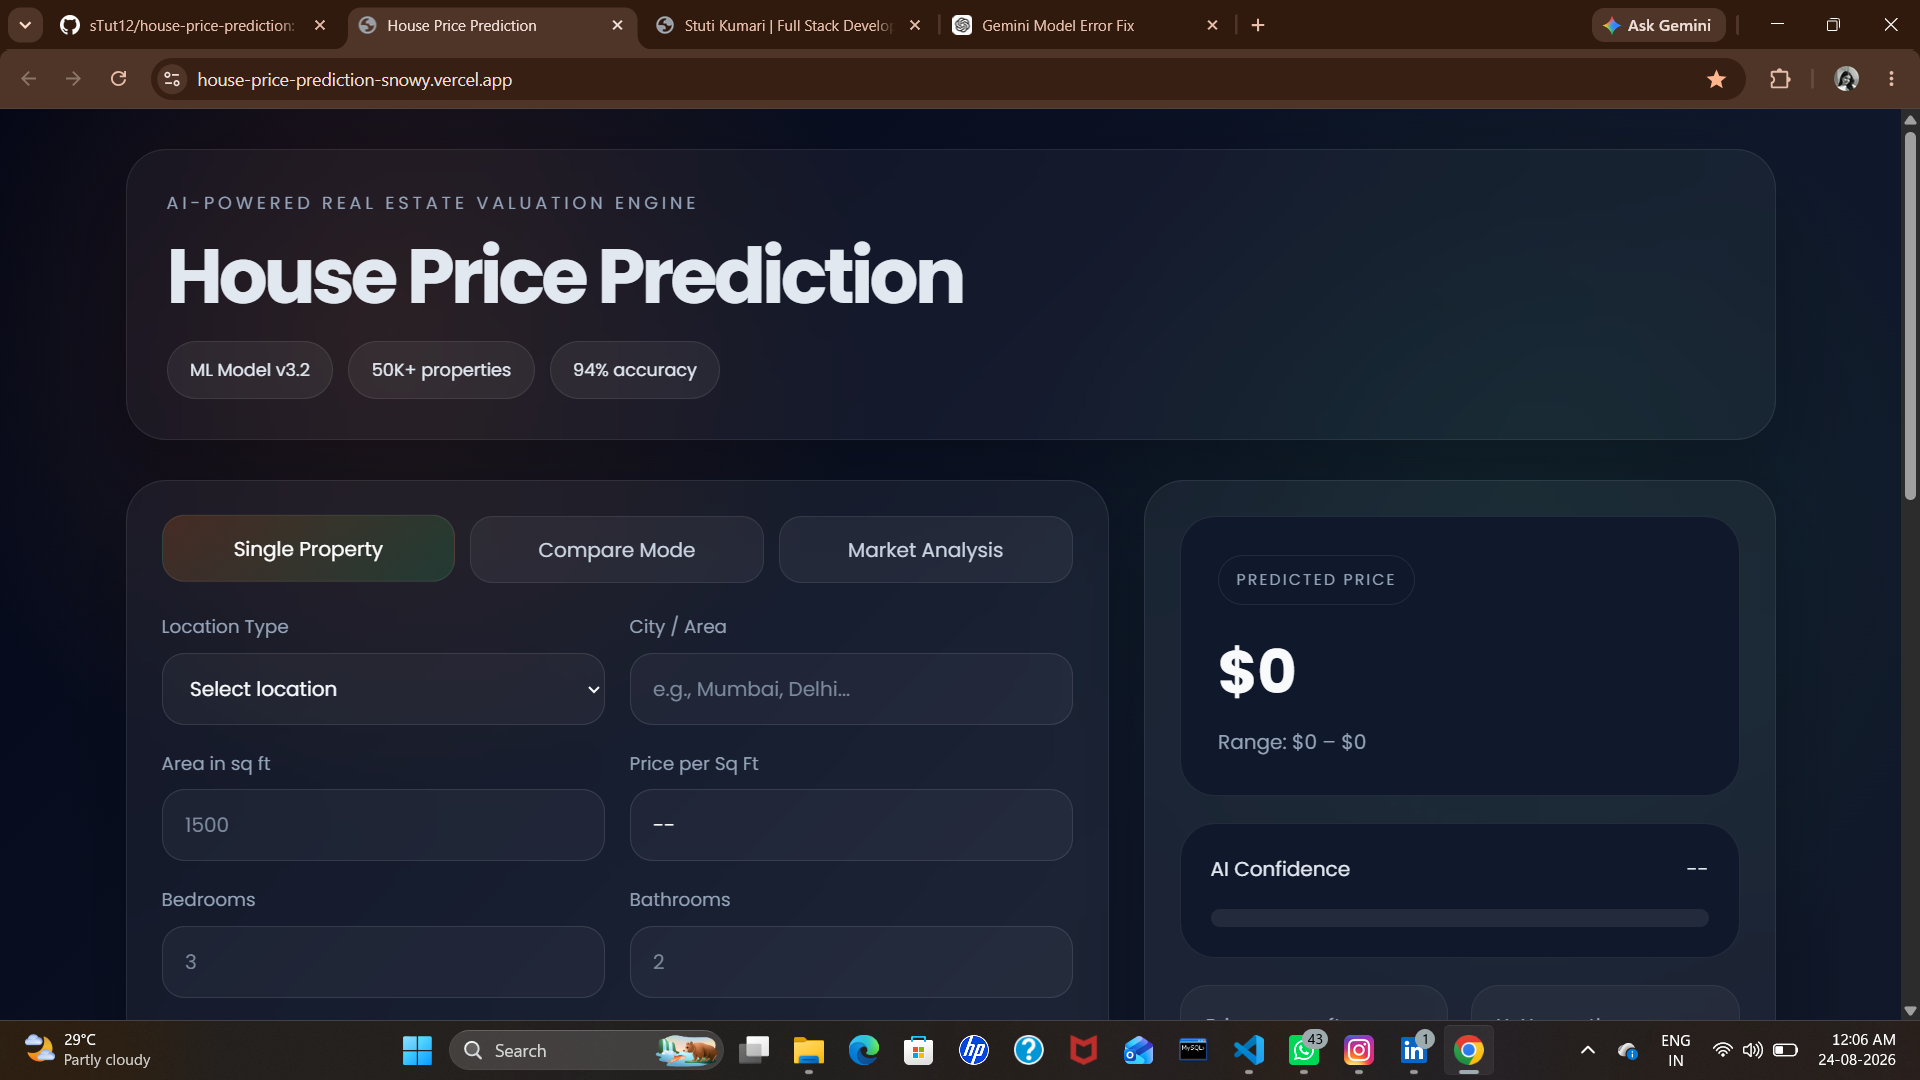
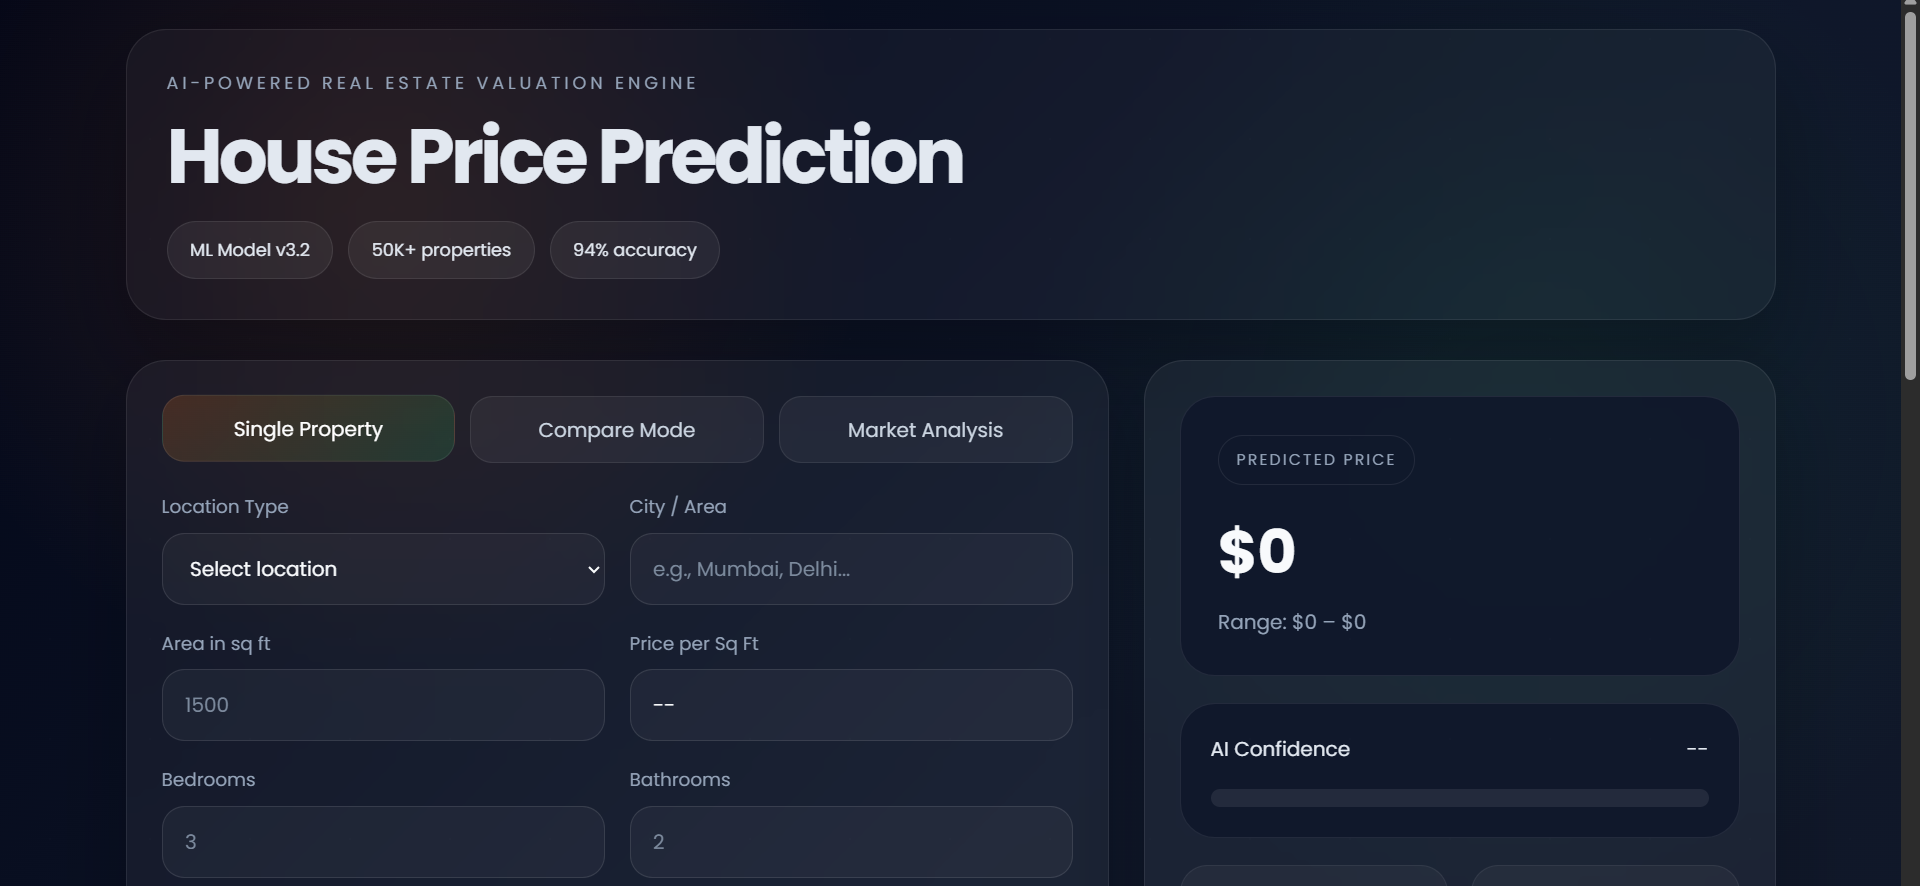
Add live links for projects

diff --git a/stuti-jaiswal-portfolio/src/constants.js b/stuti-jaiswal-portfolio/src/constants.js
@@ -197,7 +197,8 @@ export const projects = [
       "Cybersecurity awareness website with responsive UI, smooth navigation, and modern landing page.",
     image: idrImg,
     tags: ["HTML", "CSS", "JavaScript"],
-    github: "https://github.com/sTut12/institute-of-digital-risk"
+    github: "https://github.com/sTut12/institute-of-digital-risk",
+    live: "https://stut12.github.io/institute-of-digital-risk/IDR_Homepage.html"
    
   },
   {
